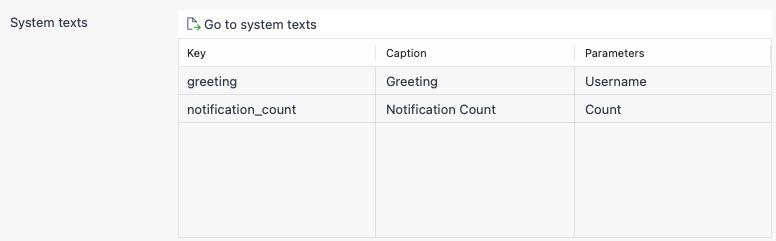
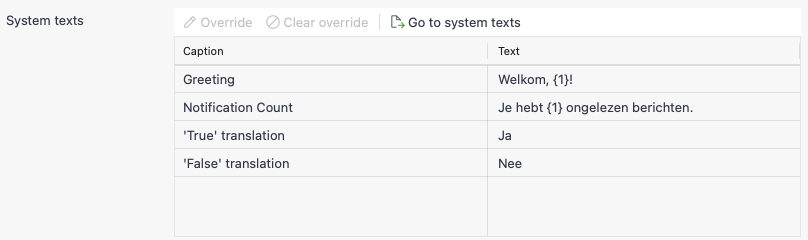
Document the ability to override system texts for widgets

diff --git a/content/en/docs/refguide/modeling/pages/common-widget-properties.md b/content/en/docs/refguide/modeling/pages/common-widget-properties.md
@@ -89,11 +89,36 @@ Dynamic classes do not require a data container.
 
 Some widgets, for example snippets and building blocks, have a **Documentation** property which can be used to store developer documentation. This can be used to explain to other developers how to use these widgets. End-users will never see this documentation.
 
-### Texts {#texts}
+### System Texts {#texts}
 
-Widgets that include translatable texts display an overview of their [system texts](/refguide/system-texts/). To manage the translations, click **Go to system texts** to open the system text editor.
+Widgets that include translatable texts display an overview of their [system texts](/refguide/system-texts/) in the **System texts** property. The overview lists the texts that the widget defines and the texts it uses from other widgets or from the app. For each text, the overview shows the **Caption** and the **Text** in the current language.
 
-{{< figure src="/attachments/apidocs-mxsdk/apidocs/pluggable-widgets/pluggable-widgets-property-types/widget-system-texts-properties-dialog.png" alt="The Studio Pro properties dialog box showing the widget's system texts" class="no-border" >}}
+{{< figure src="/attachments/refguide/modeling/pages/common-widget-properties/system-text-grid.png" alt="The Studio Pro properties dialog box showing the widget's system texts. Some texts have overrides, indicated by bold text." class="no-border" >}}
+
+To manage the translations for all widgets in the app, click **Go to system texts** to open the system text editor.
+
+#### Overriding System Texts {#override-system-texts}
+
+A system text applies to all widgets in the app that use it. To use a different text for a single widget, override the system text for that widget:
+
+1. Select the row of the system text you want to override.
+2. Click **Override** to open the **Edit system text override** dialog box. The dialog box shows the **Category**, **Item**, **Original text**, and **Parameters** of the system text.
+3. Click **Edit...** to open the [text template](/refguide/text/#caption-template) editor for the override.
+4. Click **OK** to save the override.
+
+{{< figure src="/attachments/refguide/modeling/pages/common-widget-properties/system-text-override.png" alt="The Studio Pro dialog showing the selected system text and its override." class="no-border" >}}
+
+Texts that have an override in the current language are shown in bold in the overview.
+
+You add an override per language. To add an override in another language, change the [current language](/refguide/translatable-texts/#current-language) and repeat the steps above. In languages without an override, the widget shows the system text.
+
+The parameter values of an override can use the parameters of the system text, as well as other variables on the page or snippet.
+
+To remove an override in the current language, select the text and click **Clear override**.
+
+{{% alert color="info" %}}
+Overrides for system texts per widget were introduced in Studio Pro 11.17.
+{{% /alert %}}
 
 ## Data Source Section{#data-source}
 

diff --git a/content/en/docs/apidocs-mxsdk/apidocs/studio-pro-11/pluggable-widgets/pluggable-widgets-property-types.md b/content/en/docs/apidocs-mxsdk/apidocs/studio-pro-11/pluggable-widgets/pluggable-widgets-property-types.md
@@ -1075,7 +1075,13 @@ Then the Studio Pro UI for the property appears like this:
 
 {{< figure src="/attachments/apidocs-mxsdk/apidocs/pluggable-widgets/pluggable-widgets-property-types/widget-system-texts-properties-dialog.png" alt="The Studio Pro properties dialog box showing the widget's system texts" class="no-border" >}}
 
-Note that external texts are not listed.
+The overview lists both the widget's own texts and its external texts. When an `<externalTexts>` element has no `<text>` elements, all texts of that namespace are listed.
+
+From this overview, the user can [override a system text](/refguide/common-widget-properties/#override-system-texts) for a single widget instance. When a text is overridden, `translate()` returns the override instead of the system text. This is transparent to the widget.
+
+{{% alert color="info" %}}
+Overriding system texts was introduced in Mendix 11.17.
+{{% /alert %}}
 
 Clicking **Go to system texts** opens the system texts editor, where the texts appear categorized under the widget's name:
 

diff --git a/content/en/docs/apidocs-mxsdk/apidocs/studio-pro-11/pluggable-widgets/pluggable-widgets-client-apis/_index.md b/content/en/docs/apidocs-mxsdk/apidocs/studio-pro-11/pluggable-widgets/pluggable-widgets-client-apis/_index.md
@@ -581,6 +581,14 @@ translate("mxui.common", "true") // mxui.common.true
 
 Parameters may be passed to external texts. Please note there is no type checking for the parameters of external texts.
 
+#### Overrides {#overrides}
+
+A user can [override system texts](/refguide/common-widget-properties/#override-system-texts) for a single widget in Studio Pro. This applies to both the widget's own texts and its external texts. When an override exists for the current language, `translate()` returns the override instead of the system text. The parameters passed to `translate()` are substituted in the override in the same way. The widget does not need any changes to support overrides.
+
+{{% alert color="info" %}}
+Overriding system texts was introduced in Mendix 11.17.
+{{% /alert %}}
+
 ## Exposed Modules
 
 ### Session {#session}

diff --git a/content/en/docs/refguide/modeling/app-explorer/app/system-texts.md b/content/en/docs/refguide/modeling/app-explorer/app/system-texts.md
@@ -32,3 +32,7 @@ In the [App Settings](/refguide/project-settings/), you can manage the available
 Some system texts have parameters that can be inserted into the text. 
 
 For example, if you delete items in a data grid, the following question will appear: 'Delete {1} items?'. At the position of the text {1} the first parameter will be inserted. In this case, the parameter is the number of objects that are selected for deletion. You are not required to use the parameter and the text 'Delete these items?' would also be a valid text.
+
+## Overriding System Texts for a Widget
+
+System texts apply to the whole app but may be overridden per widget that uses them. For more information, see the [Overriding System Texts](/refguide/common-widget-properties/#override-system-texts) section in *Properties Common in the Page Editor*.
